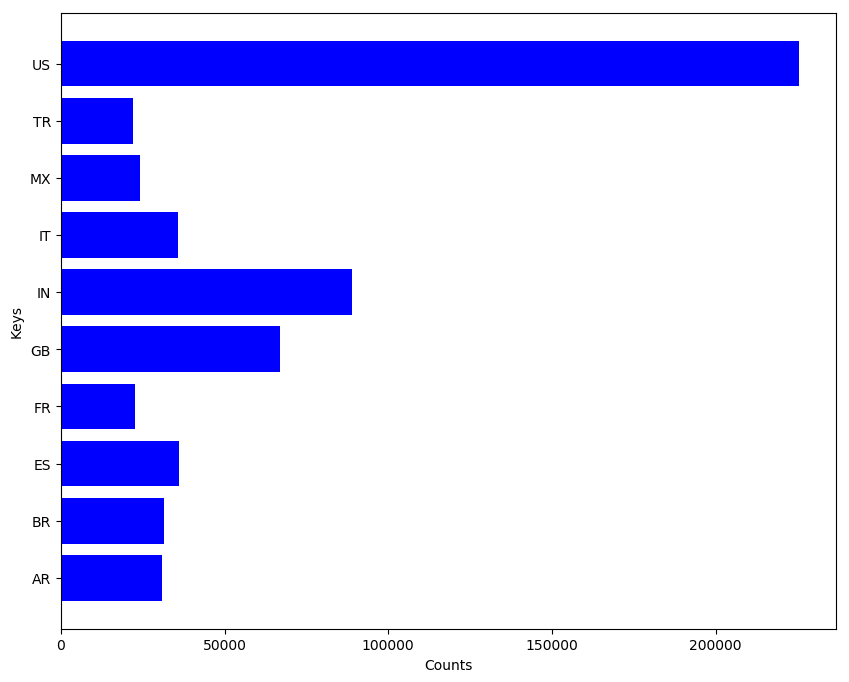
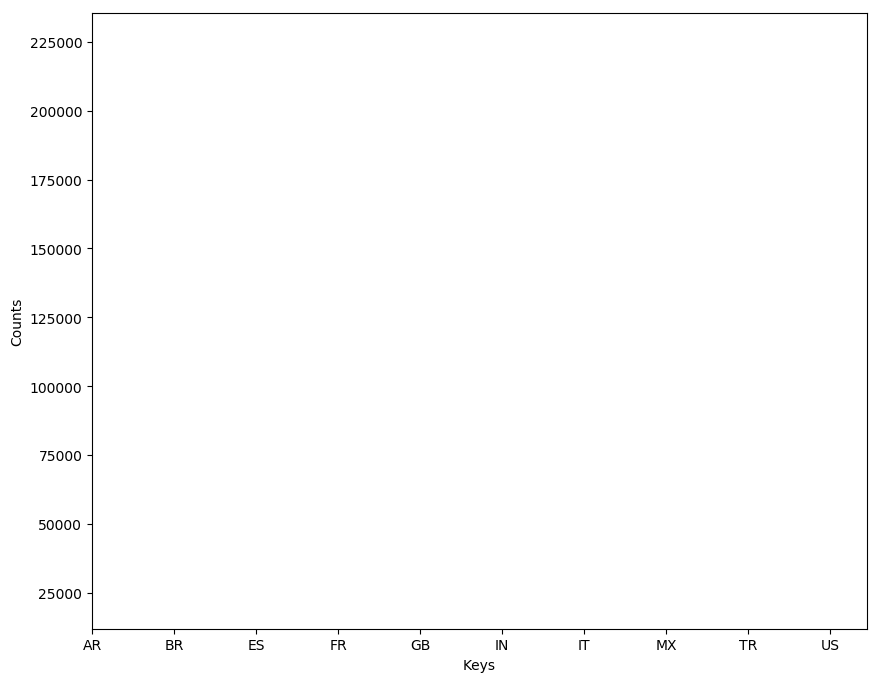
Graph test 4

diff --git a/src/visualize.py b/src/visualize.py
@@ -24,9 +24,9 @@ def create_bar_graph(data, file_name):
     values = [v for k, v in sorted_data]
 
     plt.figure(figsize=(10, 8))
-    plt.barh(keys, values, color='blue')
-    plt.xlabel('Counts')
-    plt.ylabel('Keys')
+    plt.barh(values, keys, color='blue')
+    plt.ylabel('Counts')
+    plt.xlabel('Keys')
 
     plt.savefig(f'{args.output_filename}.png', bbox_inches='tight')
     plt.close()
